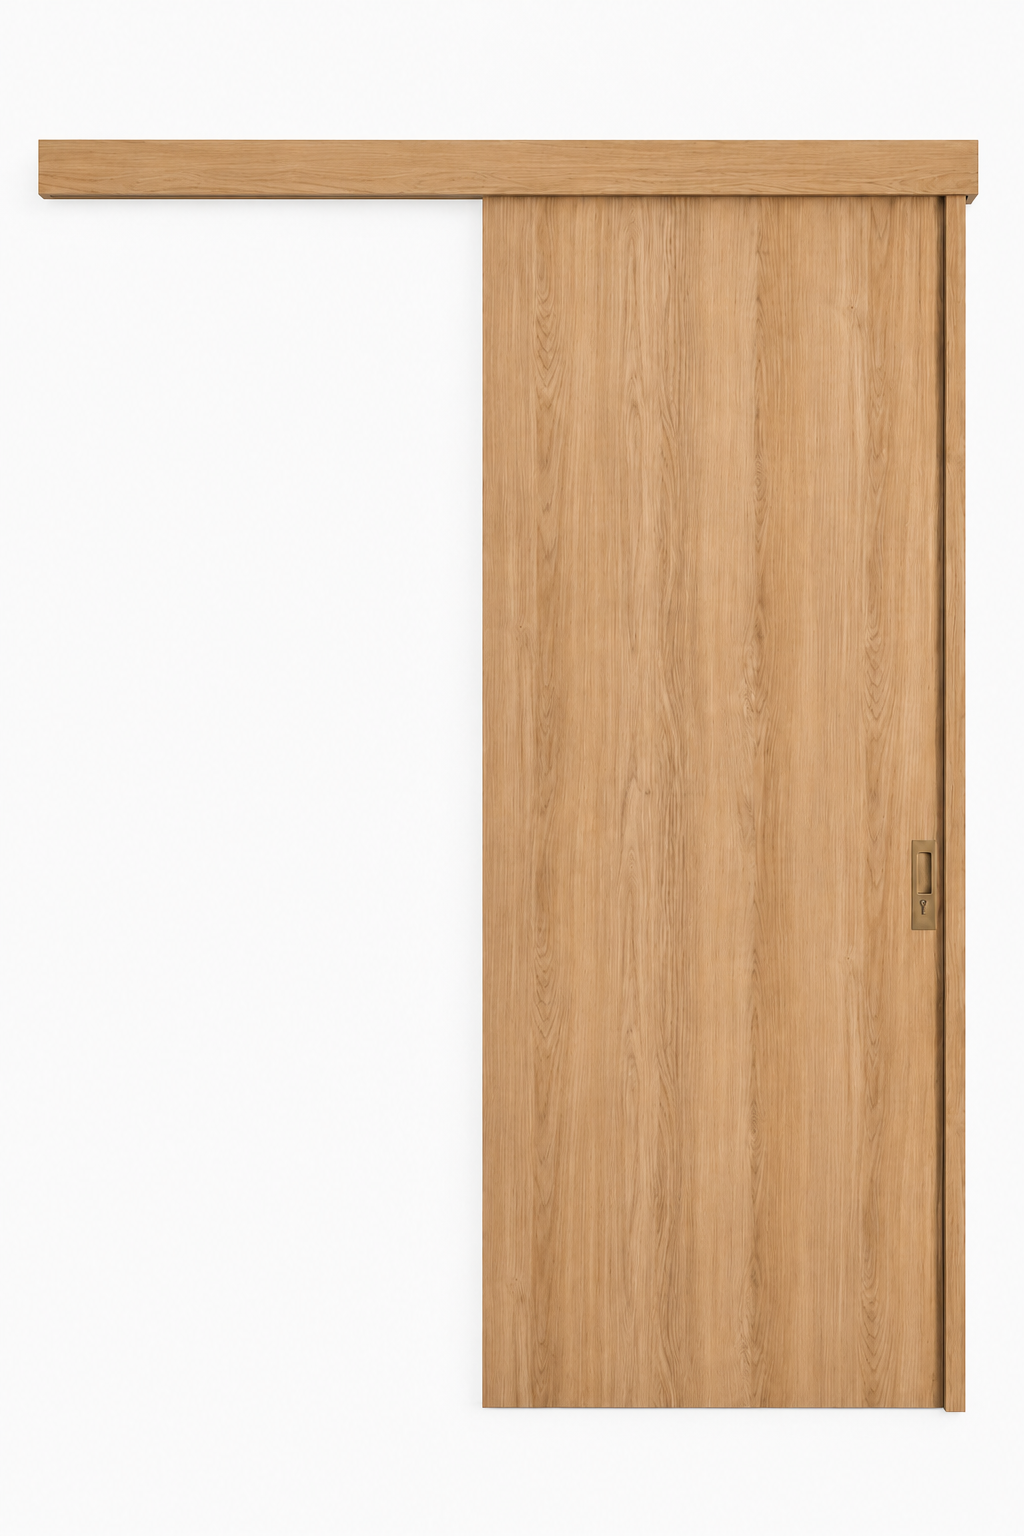
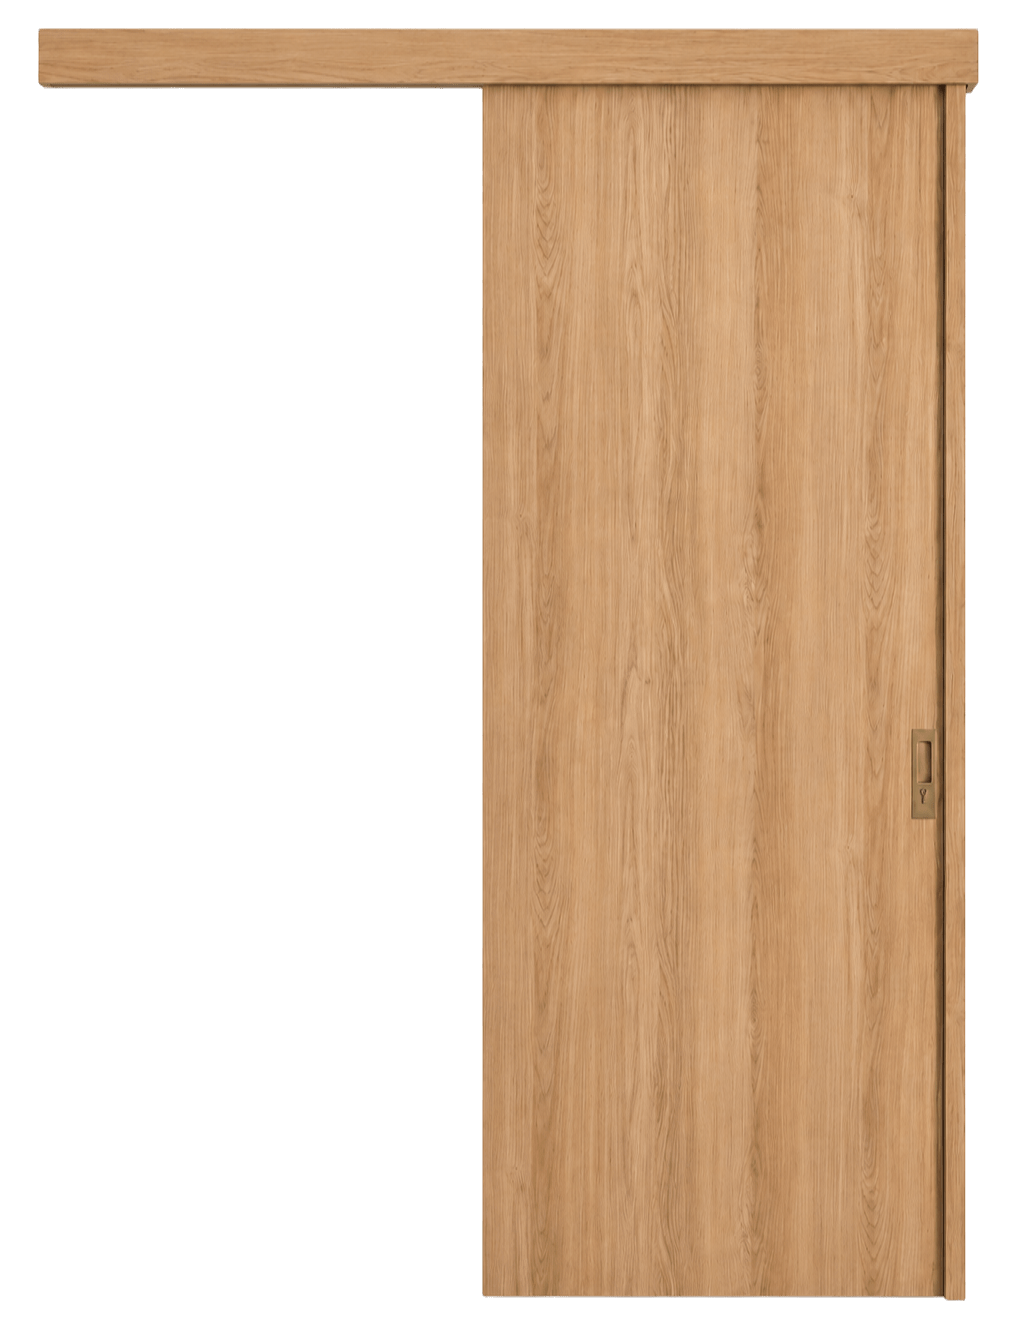
chore: capitalize Cửa in Hero section

Changed region(s): [[0.0312, 0.0, 0.9688, 0.154], [0.4688, 0.8933, 0.9688, 0.9857], [0.875, 0.5853, 0.9375, 0.6161]]

diff --git a/src/components/Hero.tsx b/src/components/Hero.tsx
@@ -34,7 +34,7 @@ export function Hero() {
           
           <StaggerItem>
             <h1 className="text-[36px] font-medium leading-[1.04] tracking-[-0.5px] text-white md:text-[52px] lg:text-[64px]">
-              cửa composite
+              Cửa composite
               <br />
               công nghệ <span className="accent-serif italic text-brand">Đức</span>
             </h1>
